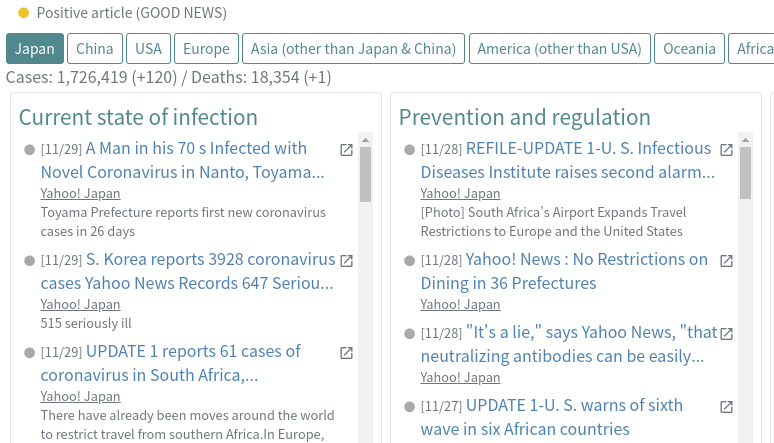
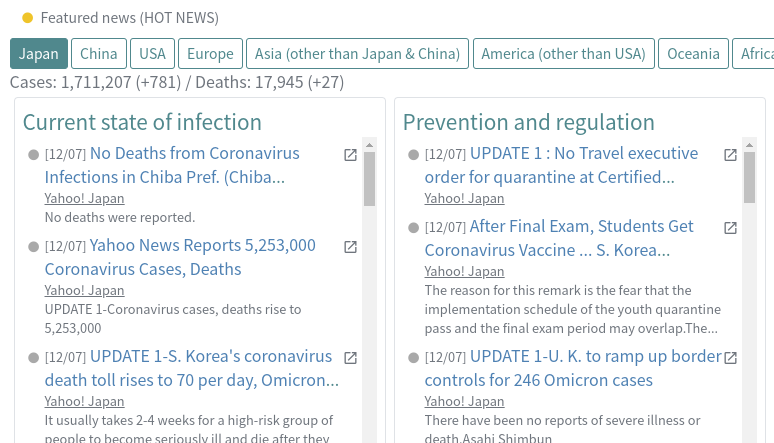
Rename Good news to Hot news

diff --git a/src/pages/[lang]/about.tsx b/src/pages/[lang]/about.tsx
@@ -54,7 +54,7 @@ const AboutJp = () => (
     </Row>
     <section>
       <ul>
-        <li>ポジティブな記事(GOOD NEWS): 感情分析によってポジティブと自動判定された記事</li>
+        <li>注目ニュース(HOT NEWS): 感情分析によってポジティブと自動判定された記事</li>
         <li>デマ関連情報: デマの可能性がある情報について言及していると自動判定された記事</li>
       </ul>
     </section>
@@ -116,7 +116,7 @@ const AboutEn = () => (
     </Row>
     <section>
       <ul>
-        <li>Positive article (GOOD NEWS): An article automatically judged to be positive by sentiment analysis</li>
+        <li>Featured news (HOT NEWS): An article automatically judged to be positive by sentiment analysis</li>
         <li>Disputable: An article automatically judged as referring to disputable information</li>
       </ul>
     </section>

diff --git a/src/translations/ja.js b/src/translations/ja.js
@@ -5,7 +5,7 @@ export const ja = {
   check_public_website: '公的機関のWebサイトを確認する',
   情報源のサイト: '情報源のサイト',
   お問い合わせ: 'お問い合わせ',
-  positive: 'ポジティブな記事(GOOD NEWS)',
+  positive: '注目ニュース(HOT NEWS)',
   no_info: '情報はありません',
   false_rumor: 'デマ関連情報',
   元の言語で表示: '元の言語で表示する',

diff --git a/src/translations/en.js b/src/translations/en.js
@@ -5,7 +5,7 @@ export const en = {
   check_public_website: 'Check out websites of public institutions',
   情報源のサイト: 'Information sources list',
   お問い合わせ: 'Contact:',
-  positive: 'Positive article (GOOD NEWS)',
+  positive: 'Featured news (HOT NEWS)',
   no_info: 'No information available.',
   false_rumor: 'Disputable',
   元の言語で表示: 'Show in original language',
